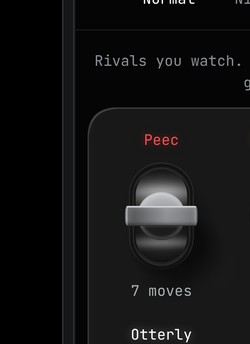
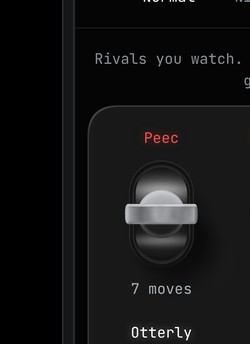
v12: toggle bar light and gradient matched to the Luce close-up (#33)
* Rebuild /founders landing page from the Nubble positioning document

Real example run for pokpok.ai with sourced rival posts, the three story sizes,
competitor watching, sources, labels, outputs and early access. Micro animations
rest at their final state and respect reduced motion.

Claude-Session: https://claude.ai/code/session_01C2EY6NRqcXFKZSVToZdW2L

* Rebuild /founders on the Vercel Geist design system

Geist Sans and Mono, Geist greys and semantic colours, one framed grid with
shared cell borders, the example brief as a terminal, and a numbered how-it-works
trace. All copy and sources unchanged.

Claude-Session: https://claude.ai/code/session_01C2EY6NRqcXFKZSVToZdW2L

* Match /founders to the positioning document: brief beside the promise, six steps with the document's own titles

Claude-Session: https://claude.ai/code/session_01C2EY6NRqcXFKZSVToZdW2L

* Founders page: animated story pictures and icons instead of text blocks

Each of the six pains shows an icon, its headline and a small animated picture
of the real story; the full text opens on tap. Icons on sources, outputs and
channels. No copy removed.

Claude-Session: https://claude.ai/code/session_01C2EY6NRqcXFKZSVToZdW2L

* Founders page: real content in every picture, annotated brief for the promise, live source feed, place previews

Claude-Session: https://claude.ai/code/session_01C2EY6NRqcXFKZSVToZdW2L
[…]

diff --git a/client/src/pages/founders-luce-3d-v12.tsx b/client/src/pages/founders-luce-3d-v12.tsx
@@ -219,7 +219,7 @@ function makeMats() {
     tRim: capMat(capRim),
     tWell: capMat(capWell),
     tHub: Object.assign(capMat(capHub, true), { map: grainTex() }),
-    tBar: capMat(capBar, true),
+    tBar: Object.assign(capMat(capBar, true), { map: brushTex() }),
     tAlu: capMat(capBar),
     capBlade: Object.assign(capMat(capBlade), { map: grainTex() }),
     capLip: capMat(capLip, true),
@@ -315,6 +315,34 @@ function grainTex() {
   t.colorSpace = THREE.SRGBColorSpace;
   return t;
 }
+/** Brushed grain for the toggle bar: fine speckle plus faint streaks along its length. */
+function brushTex() {
+  const c = document.createElement("canvas");
+  c.width = 128; // around the bar
+  c.height = 256; // along the bar
+  const g = c.getContext("2d")!;
+  const img = g.createImageData(128, 256);
+  let seed = 11;
+  const rnd = () => ((seed = (seed * 16807) % 2147483647) / 2147483647);
+  const GX = 9, GY = 17;
+  const grid = Array.from({ length: GX * GY }, () => rnd());
+  const at = (i: number, j: number) => grid[(j % GY) * GX + (i % GX)];
+  for (let y = 0; y < 256; y++)
+    for (let x = 0; x < 128; x++) {
+      const fx = (x / 128) * (GX - 1), fy = (y / 256) * (GY - 1);
+      const i = Math.floor(fx), j = Math.floor(fy), tx = fx - i, ty = fy - j;
+      const sx = tx * tx * (3 - 2 * tx), sy = ty * ty * (3 - 2 * ty);
+      const n = (at(i, j) * (1 - sx) + at(i + 1, j) * sx) * (1 - sy) + (at(i, j + 1) * (1 - sx) + at(i + 1, j + 1) * sx) * sy;
+      const v = 222 + n * 22 + rnd() * 11;
+      const k = (y * 128 + x) * 4;
+      img.data[k] = img.data[k + 1] = img.data[k + 2] = Math.min(255, v);
+      img.data[k + 3] = 255;
+    }
+  g.putImageData(img, 0, 0);
+  const t = new THREE.CanvasTexture(c);
+  t.colorSpace = THREE.SRGBColorSpace;
+  return t;
+}
 /** linear vertex colour that scales a matcap's sRGB value by f */
 const vlin = (f: number) => Math.pow(Math.max(0, f), 2.2);
 // Key blade: bright where it tilts up to the light, ~178 face, dark where it turns down;
@@ -348,11 +376,14 @@ const capHub = (nx: number, ny: number) => ramp([[0, 158], [0.5, 166], [0.8, 180
 // Toggle bar (bent slightly round the hub): bright bands near both ends and in the middle,
 // darker between, flat ~150 along the top edge, falling to dark along the bottom edge.
 const capBar = (nx: number, ny: number) => {
-  let v = ramp([[-1, 90], [-0.7, 190], [-0.5, 210], [-0.34, 130], [-0.22, 80], [-0.08, 125], [0.04, 158], [0.14, 145], [0.24, 120], [0.36, 180], [0.48, 175], [0.7, 110], [1, 60]], nx);
-  v = 146 + (v - 158) * 0.7;
-  v += 24 * ny;
-  if (ny > 0) v += (222 - v) * sstep(0.4, 0.68, ny) - 70 * sstep(0.88, 1, ny);
-  else { v *= 1 - 0.22 * sstep(0.1, 0.45, -ny); v += (42 - v) * sstep(0.55, 0.85, -ny); }
+  // along the bar (the bend tilts the face from nx -.29 at the left end to +.29 at the right),
+  // read off the reference: bright left end, dark band at 20%, bright at 40%, darker at 70-80%,
+  // lighter again near the right end; left end cap lit, right end cap dim
+  let v = ramp([[-1, 190], [-0.36, 200], [-0.29, 205], [-0.23, 150], [-0.17, 108], [-0.1, 140], [-0.05, 172], [0.02, 168], [0.1, 145], [0.17, 132], [0.23, 150], [0.27, 182], [0.33, 150], [1, 105]], nx);
+  // across the bar: a lit top face with a crisp top line, then the front, a darker lower edge
+  // with a faint light rim at the very bottom
+  if (ny > 0) v += (-12 * sstep(0.18, 0.26, ny) * (1 - sstep(0.26, 0.32, ny))) + (205 - v) * sstep(0.28, 0.4, ny) + 28 * sstep(0.55, 0.68, ny) * (1 - sstep(0.75, 0.88, ny)) - 90 * sstep(0.9, 1, ny);
+  else v += (118 - v) * sstep(0.55, 0.85, -ny) + 55 * sstep(0.86, 0.94, -ny) * (1 - sstep(0.96, 1, -ny));
   return v;
 };
 /** A soft round glow, used as the light of an LED under black glass. */
@@ -572,7 +603,7 @@ function build(kind: string, w: number, h: number, el: HTMLElement, M: Mats): It
     shadeHub(hubMesh, 0);
     const pad = new THREE.Group();
     const L = W * 1.3;
-    const e = W * 0.05;
+    const e = W * 0.06;
     const prof: THREE.Vector2[] = [];
     for (let i = 0; i <= 10; i++) { const t = (i / 10) * (Math.PI / 2); prof.push(new THREE.Vector2(0.5 * Math.pow(Math.sin(t), 0.6) + 0.0001, -L / 2 + e * (1 - Math.cos(t)))); }
     // enough rings along the length for the bend to shape the light bands
@@ -595,7 +626,10 @@ function build(kind: string, w: number, h: number, el: HTMLElement, M: Mats): It
     // bent back slightly toward both ends, round the hub
     {
       const bp = bar.attributes.position;
-      for (let i = 0; i < bp.count; i++) { const u = bp.getX(i) / (L / 2); bp.setZ(i, bp.getZ(i) - W * 0.1 * u * u); }
+      for (let i = 0; i < bp.count; i++) {
+        const u = bp.getX(i) / (L / 2);
+        bp.setZ(i, bp.getZ(i) - W * 0.1 * u * u);
+      }
     }
     bar.computeVertexNormals();
     {

diff --git a/client/public/luce-check/index.html b/client/public/luce-check/index.html
@@ -43,6 +43,14 @@
     </div>
   </section>
 
+  <section>
+    <h2>Toggle bar, close up</h2>
+    <div class="pair">
+      <figure><img src="/luce-check/bar-luce.jpg" alt="Luce reference toggle bar, close up"><figcaption><b>Luce reference</b> (your crop)</figcaption></figure>
+      <figure><img src="/luce-check/bar-nubble.jpg" alt="Nubble toggle bar, close up, live 3D"><figcaption><i>Nubble, live 3D</i>, same zoom</figcaption></figure>
+    </div>
+  </section>
+
   <a class="live" href="/founders-v12">Flip and turn them live on /founders-v12</a>
 </body>
 </html>
